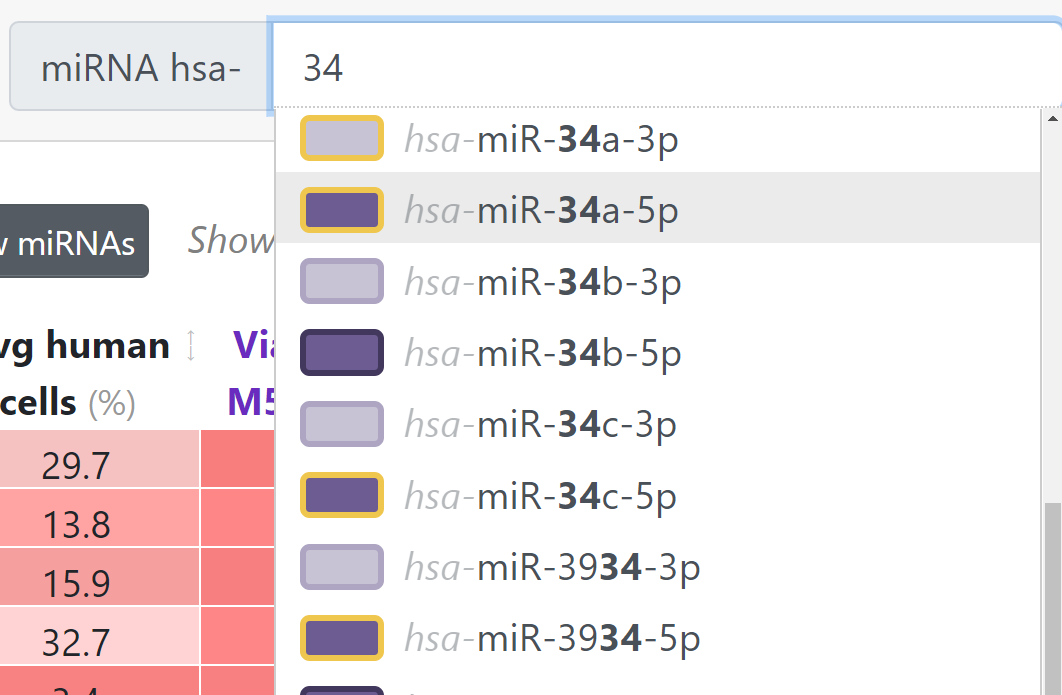
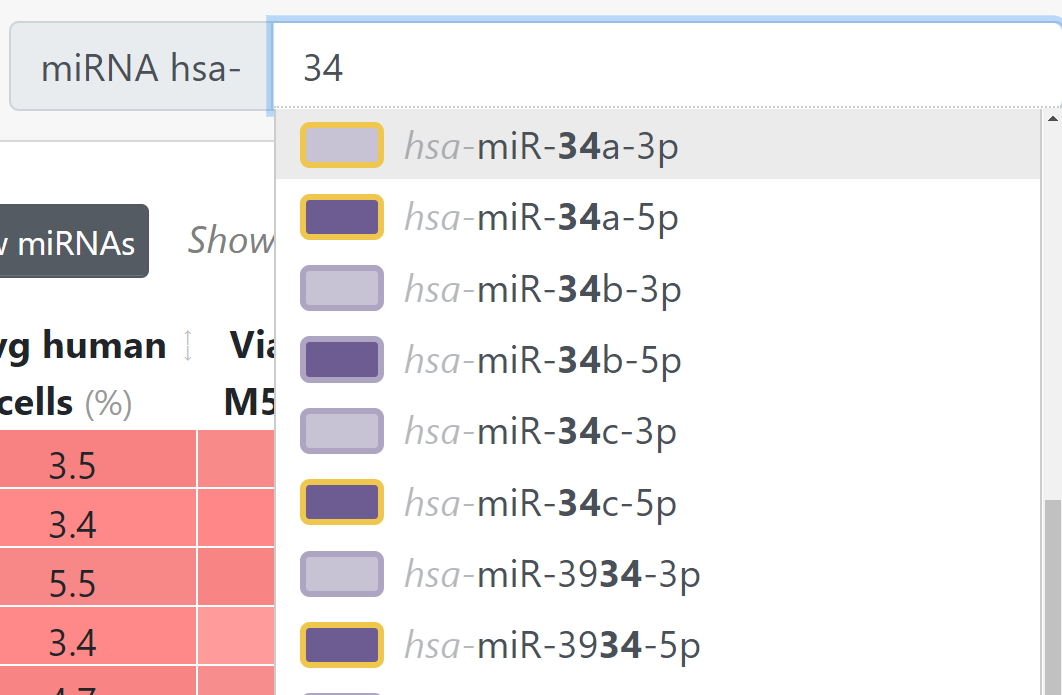
updated mature miRNA outline colors for predominant and lesser expressed arms

diff --git a/index.html b/index.html
@@ -188,8 +188,8 @@
 
             <p>When <b>show miRNAs</b> is enabled, miRNAs are color-coded as follows:</p>
             <ul>
-                <li>Mature miRNAs representing the predominant arm are shown in <div style="border-color: #8d7eaf66" class="badge badge-light mi-arm mi-arm-dom">dark purple</div>.</li>
-                <li>Mature miRNAs representing the lesser expressed arm (the * activity) are shown in <div style="border-color: #e3dff0" class="badge badge-light mi-arm mi-arm-less">light purple</div>.</li>
+                <li>Mature miRNAs representing the predominant arm are shown in <div class="badge badge-light mi-arm mi-arm-dom">dark purple</div>.</li>
+                <li>Mature miRNAs representing the lesser expressed arm (the * activity) are shown in <div class="badge badge-light mi-arm mi-arm-less">light purple</div>.</li>
 
                 <li>miRNAs that are highly expressed and processed by Drosha (RISC bound in wild-type but not Drosha k.o. HCT116 cells)  have a <div class="badge badge-light mi-arm mi-arm-dom mi-arm-drosha">yellow</div> <div class="badge badge-light mi-arm mi-arm-less mi-arm-drosha">outline</div>.
 

diff --git a/assets/css/main.css b/assets/css/main.css
@@ -348,27 +348,33 @@ tr .mi-rna .mi-arm {
     background-color: #6c5c91; 
     color: white;
     font-weight: normal;
-    border: #42375d solid 2.5px;
+    border: #ada5c2 solid 2.5px;
 }
 .mi-arm:hover { 
-    background-color: #382e50; 
+    background-color: #382e50;
+    border-color: #7a728e; 
 }
 .mi-arm.mi-arm-less { 
     color: #62577d;
     background-color: #c8c3d4; 
-    border-color: #ada5c2;
 }
 .mi-arm.mi-arm-less:hover { 
     color: #171321;
     background-color: #9188a9;
-    border-color: #7a728e;
 }
 
 .mi-arm.mi-arm-drosha {
-    border-color: #efc74f !important;
+    border-color: #efc74f;
 }
+.mi-arm-mi-arm-drosha:hover {
+    border-color: #d89029;
+}
+
 .mi-arm.mi-arm-mirtron {
-    border-color: #4196d8 !important;
+    border-color: #4196d8;
+}
+.mi-arm.mi-arm-mirtron:hover {
+    border-color: #1a74ba;
 }
 
 
